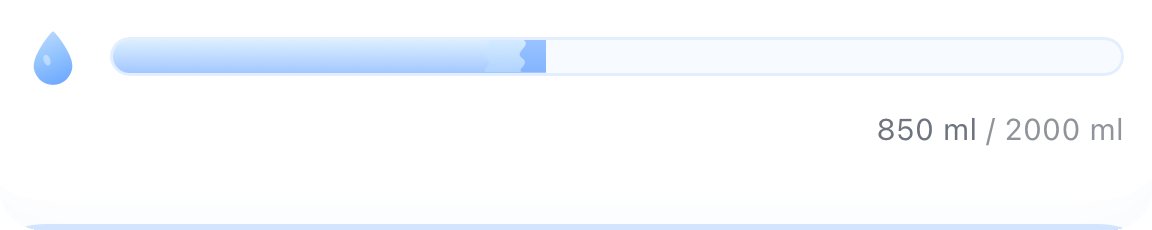
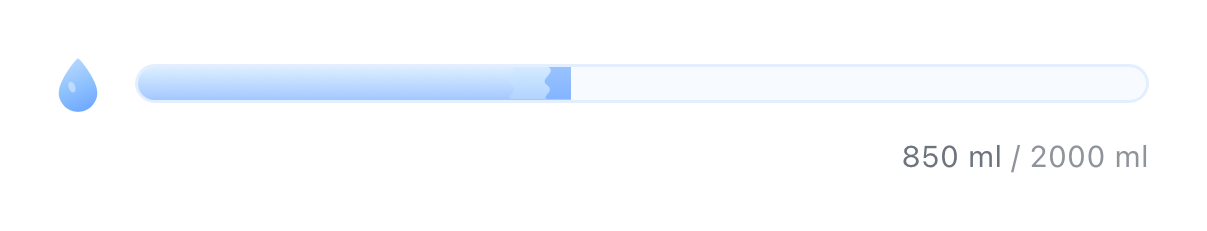
fix: rebuild the day cards and add a nav menu
The water and activity tiles were rectangles sliced out of a screenshot, so
rows and chips clipped. They are now composed from clean parts with balanced
padding and the app's own column divider. Nav gains a menu holding About us,
Support and Download instead of a bare CTA beside the hero button.

diff --git a/components/Menu.tsx b/components/Menu.tsx
@@ -1,0 +1,96 @@
+"use client";
+
+import { useEffect, useRef, useState } from "react";
+import { APP_STORE_URL, INK } from "./site";
+
+const LINKS = [
+  { label: "About us", href: "#", soon: true },
+  { label: "Support", href: "mailto:hello@minimul.app" },
+];
+
+export default function Menu() {
+  const [open, setOpen] = useState(false);
+  const wrap = useRef<HTMLDivElement>(null);
+
+  useEffect(() => {
+    if (!open) return;
+    const onKey = (e: KeyboardEvent) => e.key === "Escape" && setOpen(false);
+    const onClick = (e: MouseEvent) => {
+      if (wrap.current && !wrap.current.contains(e.target as Node)) setOpen(false);
+    };
+    document.addEventListener("keydown", onKey);
+    document.addEventListener("mousedown", onClick);
+    return () => {
+      document.removeEventListener("keydown", onKey);
+      document.removeEventListener("mousedown", onClick);
+    };
+  }, [open]);
+
+  return (
+    <div ref={wrap} className="relative">
+      <button
+        type="button"
+        aria-expanded={open}
+        aria-haspopup="menu"
+        aria-label="Menu"
+        onClick={() => setOpen((v) => !v)}
+        className="flex h-10 w-10 items-center justify-center rounded-full bg-white/70 ring-1 ring-[#16233B]/[0.08] backdrop-blur transition hover:bg-white"
+        style={{ boxShadow: "0 8px 22px -12px rgba(16,42,86,0.45)" }}
+      >
+        <svg width="17" height="17" viewBox="0 0 24 24" fill="none" stroke={INK} strokeWidth="2.2" strokeLinecap="round">
+          {open ? (
+            <>
+              <path d="M6 6l12 12" />
+              <path d="M18 6L6 18" />
+            </>
+          ) : (
+            <>
+              <path d="M4 8h16" />
+              <path d="M4 16h16" />
+            </>
+          )}
+        </svg>
+      </button>
+
+      {open && (
+        <div
+          role="menu"
+          className="absolute right-0 top-12 w-56 overflow-hidden rounded-2xl bg-white/95 p-2 ring-1 ring-[#16233B]/[0.08] backdrop-blur"
+          style={{ boxShadow: "0 24px 50px -18px rgba(16,42,86,0.35)" }}
+        >
+          {LINKS.map((l) => (
+            <a
+              key={l.label}
+              href={l.href}
+              role="menuitem"
+              aria-disabled={l.soon || undefined}
+              onClick={(e) => {
+                if (l.soon) e.preventDefault();
+                else setOpen(false);
+              }}
+              className={`flex items-center justify-between rounded-xl px-3.5 py-2.5 text-[15px] font-medium transition ${
+                l.soon ? "cursor-default text-[#9AAAC2]" : "text-[#16233B] hover:bg-[#F0F6FD]"
+              }`}
+            >
+              {l.label}
+              {l.soon && <span className="text-[11px] font-semibold uppercase tracking-wider">Soon</span>}
+            </a>
+          ))}
+
+          <a
+            href={APP_STORE_URL}
+            role="menuitem"
+            onClick={() => setOpen(false)}
+            className="mt-1.5 flex items-center justify-center gap-2 rounded-xl px-3.5 py-3 text-[15px] font-semibold text-white transition hover:opacity-90"
+            style={{ background: INK }}
+          >
+            <svg width="15" height="15" viewBox="0 0 24 24" fill="currentColor">
+              <path d="M18.71 19.5c-.83 1.24-1.71 2.45-3.05 2.47-1.34.03-1.77-.79-3.29-.79-1.53 0-2 .77-3.27.82-1.31.05-2.3-1.32-3.14-2.53C4.25 17 2.94 12.45 4.7 9.39c.87-1.52 2.43-2.48 4.12-2.51 1.28-.02 2.5.87 3.29.87.78 0 2.26-1.07 3.8-.91.65.03 2.47.26 3.64 1.98-.09.06-2.17 1.28-2.15 3.81.03 3.02 2.65 4.03 2.68 4.04-.03.07-.42 1.44-1.38 2.83M13 3.5c.73-.83 1.94-1.46 2.94-1.5.13 1.17-.34 2.35-1.04 3.19-.69.85-1.83 1.51-2.95 1.42-.15-1.15.41-2.35 1.05-3.11z" />
+            </svg>
+            Download
+          </a>
+        </div>
+      )}
+    </div>
+  );
+}

diff --git a/app/page.tsx b/app/page.tsx
@@ -2,6 +2,7 @@ import Image from "next/image";
 import Link from "next/link";
 import Reveal from "../components/Reveal";
 import Parallax from "../components/Parallax";
+import Menu from "../components/Menu";
 import {
   APP_STORE_URL, INK, BODY, FAINT,
   DownloadButton, UiCard, SectionHeading, AppleHealthMark,
@@ -24,13 +25,7 @@ export default function Home() {
             <Image src="/icon-512.png" alt="" width={30} height={30} className="rounded-[8px] ring-1 ring-black/5" priority />
             <span className="text-[16px] font-semibold tracking-[-0.015em]">WhatYouAte</span>
           </div>
-          <a
-            href={APP_STORE_URL}
-            className="rounded-full px-5 py-2.5 text-[14px] font-semibold text-white transition hover:opacity-90"
-            style={{ background: INK }}
-          >
-            Download
-          </a>
+          <Menu />
         </div>
       </header>
 
@@ -58,8 +53,8 @@ export default function Home() {
           <Parallax speed={-18}>
             <Reveal>
               <Image
-                src="/device/iphone-patterns.png"
-                alt="The Patterns screen in WhatYouAte"
+                src="/device/iphone-home.png"
+                alt="The WhatYouAte home screen"
                 width={1500}
                 height={3175}
                 priority
